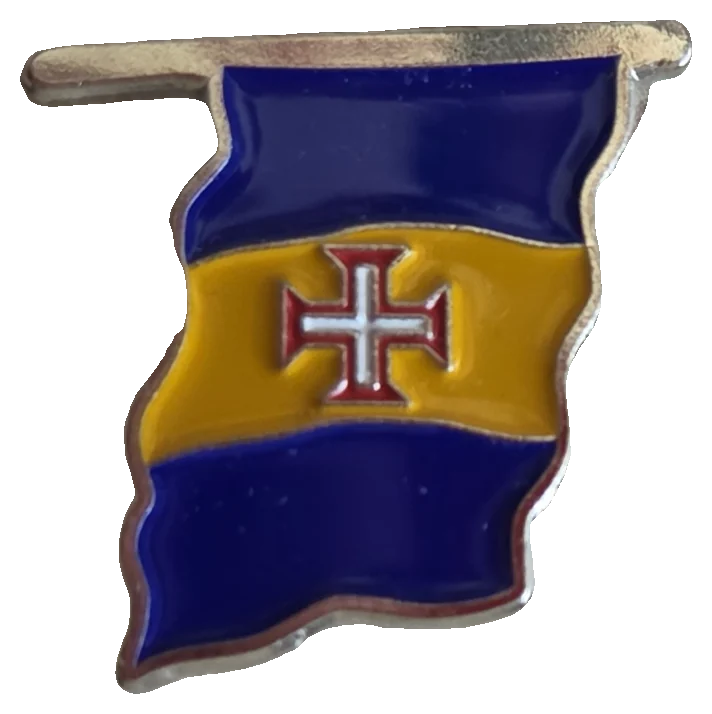
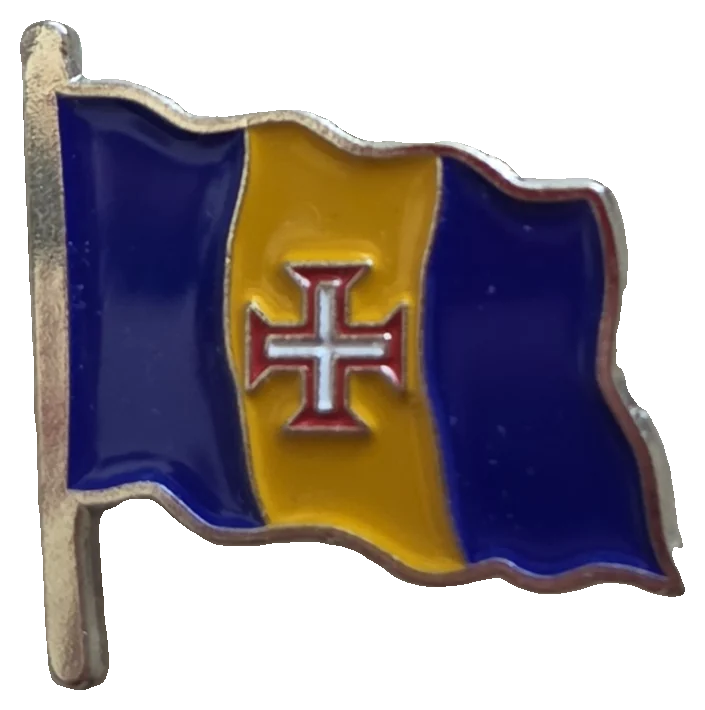
Madeira-pin een kwartslag naar links

diff --git a/destinations.html b/destinations.html
@@ -234,7 +234,7 @@
 </footer>
 
 <script src="assets/destinations.js"></script>
-<script src="assets/magneten.js?v=1794254109"></script>
+<script src="assets/magneten.js?v=1794254211"></script>
 <script src="assets/nav.js"></script>
 <script>
   const nameFR = {
